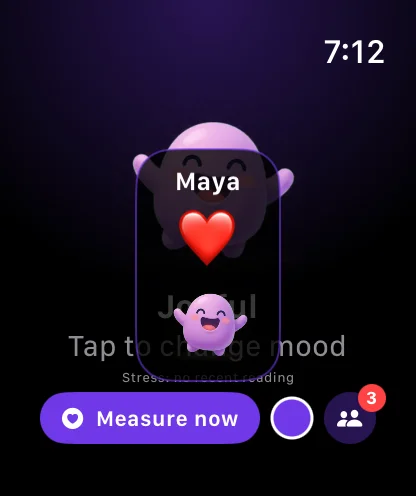
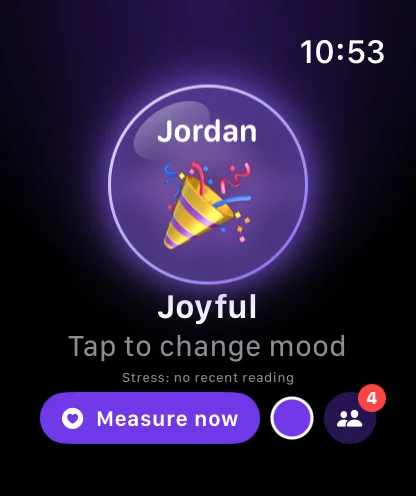
Website: current watch reaction bubble screenshot

diff --git a/website/public/app.js b/website/public/app.js
@@ -128,7 +128,7 @@ document.querySelectorAll('[data-join]').forEach(link => link.addEventListener('
 document.querySelectorAll('[data-watch]').forEach(watch => {
   const slides = (watch.dataset.watchSlides || '').split(',').filter(Boolean);
   if (slides.length) {
-    watch.innerHTML = `<div class="band top"></div><div class="case"><div class="face">${slides.map((s, i) => `<img class="wslide${i ? '' : ' on'}" src="/img/watch/${s}.webp?v=1" alt="MoodPals Apple Watch ${s} screen">`).join('')}</div></div><div class="band bottom"></div>`;
+    watch.innerHTML = `<div class="band top"></div><div class="case"><div class="face">${slides.map((s, i) => `<img class="wslide${i ? '' : ' on'}" src="/img/watch/${s}.webp?v=2" alt="MoodPals Apple Watch ${s} screen">`).join('')}</div></div><div class="band bottom"></div>`;
     let i = 0;
     const imgs = watch.querySelectorAll('.wslide');
     setInterval(() => { imgs[i].classList.remove('on'); i = (i + 1) % imgs.length; imgs[i].classList.add('on'); }, 2800);
